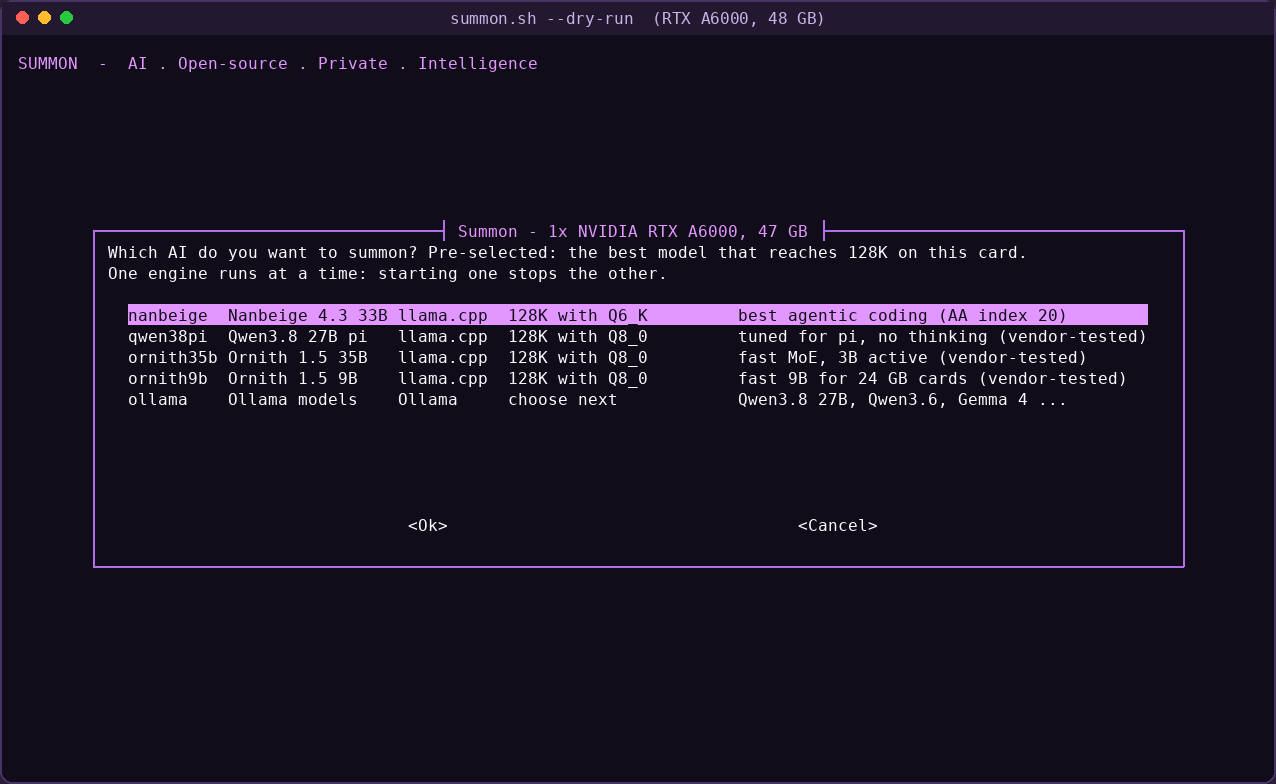
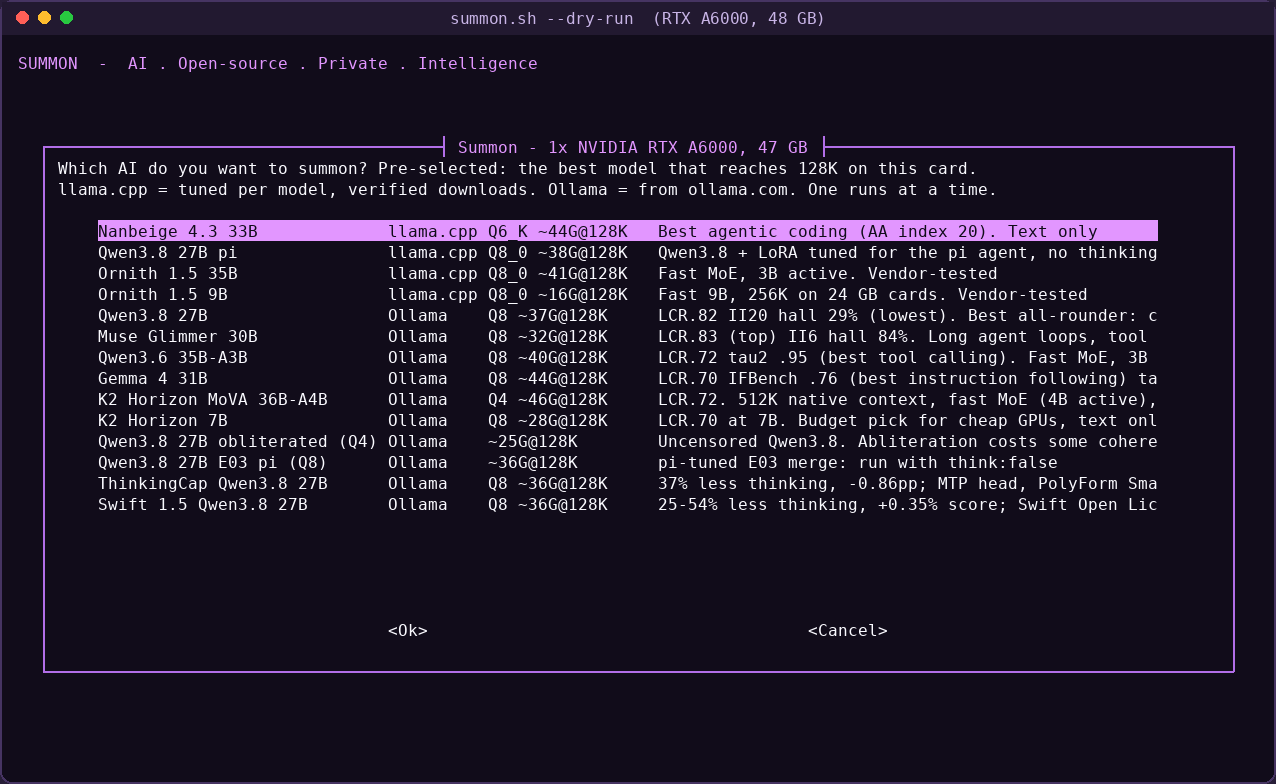
One menu for every model: llama.cpp and Ollama side by side
- The first menu lists all llama.cpp and Ollama models with engine, fit (weights ~VRAM@context) and notes;
  the Ollama checklist is gone (ONLY=1,3 still pulls several at once)
- Ollama sizing (registry lookups) runs before the menu in ol_prepare(); choose() gains --notags and height clamping
- termshot: incremental UTF-8 decoding; hero image shows the merged menu on a 48 GB and a 24 GB card

diff --git a/docs/index.html b/docs/index.html
@@ -99,7 +99,7 @@
     <tr><td><b>Ornith 1.5 9B</b></td><td>llama.cpp</td><td>Fast and light. Vendor benchmarks only.</td><td>256K with 8-bit weights</td><td>256K with 8-bit weights</td></tr>
     <tr><td><b>Ollama models</b></td><td>Ollama</td><td>Qwen3.8 27B, Qwen3.6 35B-A3B, Gemma 4 31B, K2 Horizon, Muse Glimmer…</td><td>Qwen3.8 27B at 64K</td><td>most at 128K, 8-bit</td></tr>
   </table>
-  <p class="note">Every model serves an OpenAI-compatible API: point any client (pi, Continue, Open WebUI, your own code) at
+  <p class="note">All of them are in one menu, sized live to your card. Every model serves an OpenAI-compatible API: point any client (pi, Continue, Open WebUI, your own code) at
     <code>http://localhost:PORT/v1</code>. One engine runs at a time; starting one stops the other.</p>
 </section>
 
@@ -107,12 +107,12 @@
   <h2><span>04</span> See it first</h2>
   <p class="note">Real screens from <code>./summon.sh --dry-run</code>: the actual script and whiptail menus, nothing installed.</p>
   <div class="shots">
-    <figure><a href="img/01-model-menu-a6000.png"><img src="img/01-model-menu-a6000.png" alt="Summon model menu on an RTX A6000" loading="lazy"></a><figcaption>48 GB card: Nanbeige pre-selected at 128K with Q6_K weights.</figcaption></figure>
-    <figure><a href="img/06-model-menu-3090.png"><img src="img/06-model-menu-3090.png" alt="Summon model menu on an RTX 3090" loading="lazy"></a><figcaption>24 GB card: Summon knows what won't fit and picks Ornith 9B.</figcaption></figure>
+    <figure><a href="img/01-model-menu-a6000.png"><img src="img/01-model-menu-a6000.png" alt="Summon model menu on an RTX A6000" loading="lazy"></a><figcaption>One menu, every model: llama.cpp and Ollama side by side, sized to a 48 GB card. Nanbeige pre-selected.</figcaption></figure>
+    <figure><a href="img/06-model-menu-3090.png"><img src="img/06-model-menu-3090.png" alt="Summon model menu on an RTX 3090" loading="lazy"></a><figcaption>The same list on a 24 GB card: re-sized, too-big models flagged, Ornith 9B pre-selected.</figcaption></figure>
     <figure><a href="img/03-context-menu.png"><img src="img/03-context-menu.png" alt="Context window menu" loading="lazy"></a><figcaption>Step 1: context window, with the best weights that fit at each length.</figcaption></figure>
     <figure><a href="img/04-weights-menu.png"><img src="img/04-weights-menu.png" alt="Weights menu" loading="lazy"></a><figcaption>Step 2: weights. Total VRAM and relative speed for every option.</figcaption></figure>
     <figure><a href="img/05-dry-run-plan.png"><img src="img/05-dry-run-plan.png" alt="Dry run plan" loading="lazy"></a><figcaption>The plan: exactly what it would install, download and start.</figcaption></figure>
-    <figure><a href="img/09-ollama-menu.png"><img src="img/09-ollama-menu.png" alt="Ollama model checklist" loading="lazy"></a><figcaption>Or pick Ollama models: Qwen3.8 27B recommended, ranked with independent benchmark data.</figcaption></figure>
+    <figure><a href="img/09-ollama-menu.png"><img src="img/09-ollama-menu.png" alt="Ollama model checklist" loading="lazy"></a><figcaption><code>./summon.sh ollama</code>: the same menu, Qwen3.8 27B pre-selected (ranked with independent benchmarks).</figcaption></figure>
     <figure><a href="img/10-ollama-plan.png"><img src="img/10-ollama-plan.png" alt="Ollama dry run plan pulling Qwen3.8 27B" loading="lazy"></a><figcaption>Ollama plan: Qwen3.8 27B at 128K with 8-bit weights, served locally.</figcaption></figure>
     <figure><a href="img/08-dry-run-plan-3090.png"><img src="img/08-dry-run-plan-3090.png" alt="Dry run plan on an RTX 3090" loading="lazy"></a><figcaption>RTX 3090 plan: Ornith 9B, 8-bit weights, 128K context in ~16 GB.</figcaption></figure>
   </div>

diff --git a/tools/hero.py b/tools/hero.py
@@ -10,11 +10,11 @@ W, H = 1600, 900
 B = '/usr/share/fonts/truetype/dejavu/DejaVuSansMono-Bold.ttf'
 R = '/usr/share/fonts/truetype/dejavu/DejaVuSans.ttf'
 RB = '/usr/share/fonts/truetype/dejavu/DejaVuSans-Bold.ttf'
-PANELS = [
-    ('01-model-menu-a6000.png', (70, 222, 1205, 412), 'llama.cpp', ['Nanbeige 4.3 33B', 'Qwen3.8 27B pi', 'Ornith 1.5 35B / 9B'],
-     'Pre-selected for your card:\n128K context, Q6_K weights'),
-    ('09-ollama-menu.png', (40, 180, 1240, 522), 'Ollama', ['Qwen3.8 27B', 'Qwen3.6, Gemma 4', '+ more'],
-     'Ranked with independent\nbenchmarks, sized to your VRAM'),
+PANELS = [   # one merged menu, two cards: the same models, re-sized to the VRAM each card has
+    ('01-model-menu-a6000.png', (40, 140, 1240, 520), '48 GB card', ['Nanbeige 4.3 33B', '128K · Q6_K'],
+     'Pre-selected. 14 models,\nllama.cpp + Ollama, one list'),
+    ('06-model-menu-3090.png', (40, 140, 1240, 520), '24 GB card', ['Ornith 1.5 9B', '128K · Q8_0'],
+     'Same list, re-sized: knows\nwhat fits and what won\'t'),
 ]
 
 img = Image.new('RGB', (W, H), (14, 10, 22))
@@ -35,7 +35,7 @@ img.paste(grad, (0, 0), mask)
 d.text((330, 54), 'AI · OPEN-SOURCE · PRIVATE · INTELLIGENCE', font=tag, fill=(111, 214, 234))
 d.text((330, 82), 'One command turns your NVIDIA GPU into a private, OpenAI-compatible AI.', font=cap, fill=(214, 206, 228))
 
-PW, y = 1060, 160
+PW, y = 960, 150
 for name, box, eng, models, note in PANELS:
     im = Image.open(os.path.join(IMG, name)).convert('RGB').crop(box)
     ph = int(im.height * PW / im.width)
@@ -53,7 +53,7 @@ for name, box, eng, models, note in PANELS:
     for m in models:
         d.text((cx, cy), m, font=h1, fill=(226, 155, 255)); cy += 38
     d.multiline_text((cx, cy + 8), note, font=cap, fill=(169, 159, 189), spacing=6)
-    y += max(ph, cy + 70 - y) + 40
+    y += max(ph, cy + 70 - y) + 34
 d.rounded_rectangle([40, H - 74, 620, H - 28], 12, fill=(30, 20, 46), outline=(110, 70, 160), width=2)
 d.text((330, H - 51), 'codyvolckmar.github.io/summon', font=url, fill=(123, 227, 166), anchor='mm')
 d.text((W - 40, H - 51), 'Linux · Windows (WSL 2) · MIT', font=cap, fill=(169, 159, 189), anchor='rm')

diff --git a/tools/termshot.py b/tools/termshot.py
@@ -268,6 +268,8 @@ class Screen:
 
 
 def run(cmd, env, steps, outdir):
+    import codecs
+    dec = codecs.getincrementaldecoder('utf-8')('replace')   # multi-byte characters can be split across reads
     pid, fd = pty.fork()
     if pid == 0:
         os.execvpe('bash', ['bash', '-c', cmd], env)
@@ -282,10 +284,11 @@ def run(cmd, env, steps, outdir):
             rl, _, _ = select.select([fd], [], [], 0.05)
             if fd in rl:
                 try:
-                    data = os.read(fd, 65536).decode('utf-8', 'replace')
+                    raw = os.read(fd, 65536)
+                    data = dec.decode(raw)
                 except OSError:
                     return False
-                if not data:
+                if not raw:
                     return False
                 text += data
                 scr.feed(data)
@@ -354,6 +357,6 @@ if __name__ == '__main__':
     # 3) Ollama model checklist
     env = dict(base, SUMMON_GPU='NVIDIA RTX A6000:49140')
     run(f'cd {root}; clear; "{S}" --dry-run ollama 40000; sleep 30', env, [
-        ('until', r'Ollama models', 25), ('shot', '09-ollama-menu.png', 'summon.sh --dry-run ollama 40000  (RTX A6000, 48 GB)'),
+        ('until', r'Which AI', 25), ('shot', '09-ollama-menu.png', 'summon.sh --dry-run ollama 40000  (RTX A6000, 48 GB)'),
         ('key', ENTER), ('until', r'Endpoint:', 15), ('shot', '10-ollama-plan.png', 'summon.sh --dry-run ollama 40000  (RTX A6000, 48 GB)'),
     ], out)

diff --git a/README.md b/README.md
@@ -42,8 +42,9 @@ Piping a script into a shell gives it root. Read [summon.sh](summon.sh) first; i
 ## Usage
 
 ```bash
-./summon.sh [PORT]                          # the wizard
-./summon.sh nanbeige|qwen38pi|ornith35b|ornith9b|ollama [PORT]   # skip the first menu
+./summon.sh [PORT]                          # the wizard: one menu with every model, sized to your card
+./summon.sh nanbeige|qwen38pi|ornith35b|ornith9b [PORT]   # skip the menu
+ONLY=1,3 ./summon.sh [PORT]                 # pull several Ollama models at once (rows in list order)
 ./summon.sh --dry-run [PORT]                # plan only, installs nothing
 ./summon.sh --lock [PORT]                   # re-lock a rented pod's port to your current IP
 ./summon.sh --uninstall [llamacpp|ollama]   # remove an engine and its model files
@@ -67,7 +68,7 @@ Then point any OpenAI-compatible client at `http://localhost:PORT/v1` (rented po
 |---|---|
 | ![24 GB card](docs/img/06-model-menu-3090.png) | ![Context menu](docs/img/03-context-menu.png) |
 | ![Weights menu](docs/img/04-weights-menu.png) | ![Dry run plan](docs/img/05-dry-run-plan.png) |
-| ![Ollama models](docs/img/09-ollama-menu.png) | ![Ollama plan](docs/img/10-ollama-plan.png) |
+| ![Ollama pick](docs/img/09-ollama-menu.png) | ![Ollama plan](docs/img/10-ollama-plan.png) |
 
 Regenerate them with `python3 tools/termshot.py` (drives the real script in a pseudo-terminal).
 
